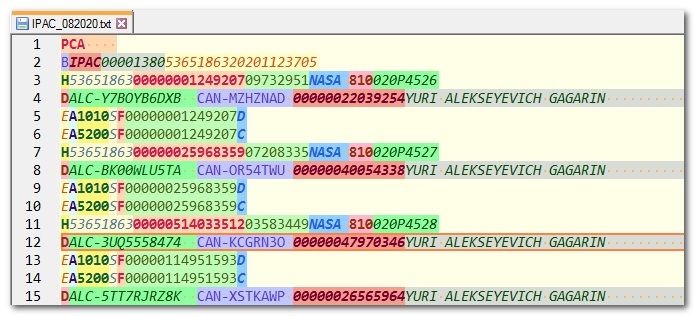
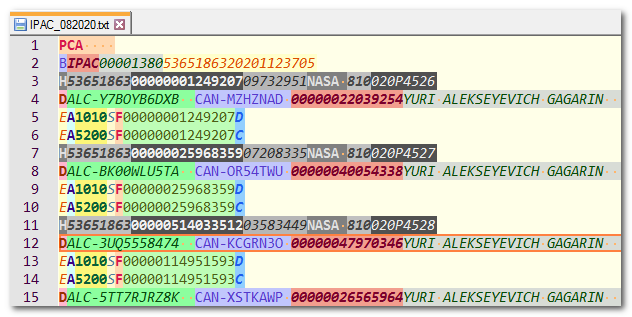
Added documentation for Record Type Theme. v1.0.3.0RC

diff --git a/src/Dialogs/ConfigureDialog.cpp b/src/Dialogs/ConfigureDialog.cpp
@@ -169,6 +169,11 @@ void ConfigureDialog::doDialog(HINSTANCE hInst) {
    Utils::loadBitmap(_hSelf, IDC_FWVIZ_DEF_REC_UP_BUTTON, IDC_VIZ_MOVE_UP_BITMAP);
    Utils::addTooltip(_hSelf, IDC_FWVIZ_DEF_REC_UP_BUTTON, NULL, FWVIZ_DEF_REC_MOVE_UP, FALSE);
 
+   Utils::loadBitmap(_hSelf, IDC_FWVIZ_DEF_REC_THEME_INFOBTN, IDC_VIZ_INFO_BITMAP);
+   HWND hTipRTTheme = Utils::addTooltip(_hSelf, IDC_FWVIZ_DEF_REC_THEME_INFOBTN,
+      FWVIZ_DEF_RECTHEME_HINT_HDR, FWVIZ_DEF_RECTHEME_HINT_TXT, TRUE);
+   SendMessage(hTipRTTheme, TTM_SETDELAYTIME, TTDT_AUTOPOP, (LPARAM)(30000));
+
    Utils::loadBitmap(_hSelf, IDC_FWVIZ_DEF_INFO_BUTTON, IDC_VIZ_INFO_BITMAP);
    Utils::addTooltip(_hSelf, IDC_FWVIZ_DEF_INFO_BUTTON, NULL, VIZ_PANEL_INFO_TIP, FALSE);
 
@@ -213,6 +218,10 @@ INT_PTR CALLBACK ConfigureDialog::run_dlgProc(UINT message, WPARAM wParam, LPARA
 
             case IDC_FWVIZ_DEF_ADFT_INFO_BUTTON:
                ShellExecute(NULL, L"open", FWVIZ_ADFT_DEF_INFO_README, NULL, NULL, SW_SHOW);
+               break;
+
+            case IDC_FWVIZ_DEF_REC_THEME_INFOBTN:
+               ShellExecute(NULL, L"open", FWVIZ_RT_THEME_INFO_README, NULL, NULL, SW_SHOW);
                break;
 
             case IDC_FWVIZ_DEF_INFO_BUTTON:

diff --git a/src/Dialogs/VisualizerPanel.cpp b/src/Dialogs/VisualizerPanel.cpp
@@ -335,9 +335,9 @@ int VisualizerPanel::loadTheme(const wstring theme) {
 
    styleCount = _configIO.StringtoInt(_configIO.getStyleValue(theme, L"Count"));
 
-   // Do not load more than FW_STYLE_CACHE_LENGTH styles (including EOL style)
-   styleCount = (loadedStyleCount + styleCount >= FW_STYLE_CACHE_LENGTH) ?
-      (FW_STYLE_CACHE_LENGTH - loadedStyleCount) : styleCount;
+   // Do not load more than FW_STYLE_CACHE_ITEMS_LIMIT styles (including EOL style)
+   styleCount = (loadedStyleCount + styleCount >= FW_STYLE_CACHE_ITEMS_LIMIT) ?
+      (FW_STYLE_CACHE_ITEMS_LIMIT - loadedStyleCount) : styleCount;
    if (styleCount < 1) return 0;
 
    TI.styleSet.clear();
@@ -645,7 +645,10 @@ void VisualizerPanel::applyLexer(const size_t startLine, const size_t endLine) {
                themeIndex = i;
                break;
             }
-         }  // if no match for recTheme, themeIndex will fallback to 0. i.e., fileTheme
+         }
+         // If no match for recTheme, themeIndex will fallback to 0. i.e., fileTheme
+         // For a recTheme, set colorOffset to zero
+         colorOffset = (themeIndex > 0) ? 0 : colorOffset;
       }
 
       const int styleRangeStart{ themeSet[themeIndex].rangeStartIndex };

diff --git a/src/Resources/resource.h b/src/Resources/resource.h
@@ -1547,11 +1547,12 @@
 #define IDC_FWVIZ_DEF_REC_REGEX_EDIT    9141
 #define IDC_FWVIZ_DEF_REC_REGEX_ANSI    9142
 #define IDC_FWVIZ_DEF_REC_THEME_LABEL   9143
-#define IDC_FWVIZ_DEF_REC_THEME_LIST    9144
-#define IDC_FWVIZ_DEF_REC_ACCEPT_BTN    9145
-#define IDC_FWVIZ_DEF_REC_NEW_BTN       9146
-#define IDC_FWVIZ_DEF_REC_CLONE_BTN     9147
-#define IDC_FWVIZ_DEF_REC_DEL_BTN       9148
+#define IDC_FWVIZ_DEF_REC_THEME_INFOBTN 9144
+#define IDC_FWVIZ_DEF_REC_THEME_LIST    9145
+#define IDC_FWVIZ_DEF_REC_ACCEPT_BTN    9146
+#define IDC_FWVIZ_DEF_REC_NEW_BTN       9147
+#define IDC_FWVIZ_DEF_REC_CLONE_BTN     9148
+#define IDC_FWVIZ_DEF_REC_DEL_BTN       9149
 #define IDC_FWVIZ_DEF_FIELD_GROUP_BOX   9161
 #define IDC_FWVIZ_DEF_FIELD_WIDTHS_TEXT 9162
 #define IDC_FWVIZ_DEF_FIELD_WIDTHS_EDIT 9163

diff --git a/src/Dialogs/VisualizerPanel.h b/src/Dialogs/VisualizerPanel.h
@@ -15,7 +15,7 @@
 #define FW_DOC_FILE_TYPE "FWVisualizerType"
 #define FW_DOC_FILE_THEME "FWVisualizerTheme"
 #define FW_STYLE_CACHE_START_INDEX 100
-#define FW_STYLE_CACHE_LENGTH 128
+#define FW_STYLE_CACHE_ITEMS_LIMIT 128
 
 extern NppData nppData;
 extern ConfigIO _configIO;

diff --git a/docs/file_type_config_dialog.md b/docs/file_type_config_dialog.md
@@ -17,6 +17,7 @@ This editor is organized in a three-level hierarchy:
   * All Auto-Detect File Type fields
   * Record Starts With
   * Record Regex Key
+  * Record Color Theme
 
 * Field Labels and Field Widths are synchronized for editing and scrolling.
 
@@ -28,4 +29,4 @@ This editor is organized in a three-level hierarchy:
 
 * Previous configurations are automatically backed up with each save. Use _Load Backup Configuration File_ to load a backup file.
 
-**See also**: [Auto-Detect File Type Configuration](https://github.com/shriprem/FWDataViz/blob/master/docs/auto_detect_file_type.md) | [Extract File Type Data](https://github.com/shriprem/FWDataViz/blob/master/docs/file_type_extract_dialog.md) | [Append File Type Data](https://github.com/shriprem/FWDataViz/blob/master/docs/file_type_append_dialog.md)
+**See also**: [Auto-Detect File Type Configuration](https://github.com/shriprem/FWDataViz/blob/master/docs/auto_detect_file_type.md) | [Record Type Theme](https://github.com/shriprem/FWDataViz/blob/master/docs/record_type_theme.md) | [Extract File Type Data](https://github.com/shriprem/FWDataViz/blob/master/docs/file_type_extract_dialog.md) | [Append File Type Data](https://github.com/shriprem/FWDataViz/blob/master/docs/file_type_append_dialog.md)

diff --git a/README.md b/README.md
@@ -61,6 +61,7 @@ __Treasury IPAC File__
 _(real format, but with fake data)_
 ![Multi_Rec](https://raw.githubusercontent.com/shriprem/FWDataViz/master/images/multi_rec_ipac_file.png)
 
+In the above clip, the _Transaction Header_ records are being visualized with a different theme. For more information on this, see: [Record Type Theme](https://github.com/shriprem/FWDataViz/blob/master/docs/record_type_theme.md)
 
 ### Multi-Line Record-type Fixed-width Data Files
 Files with data records that span multiple lines. End of record is indicated by a marker. For example: _<END_REC>_

diff --git a/docs/auto_detect_file_type.md b/docs/auto_detect_file_type.md
@@ -12,7 +12,7 @@ For ADFT to work, it requires:
 
 ## ADFT in a Nutshell
 
-![Theme_Extract](https://raw.githubusercontent.com/shriprem/FWDataViz/master/images/file_type_adft.png)
+![ADFT_Edit_Fields](https://raw.githubusercontent.com/shriprem/FWDataViz/master/images/file_type_adft.png)
 
 1. Line Numbers begin at '1', counting forwards from the start of file. Negative line numbers count backwards from the end of file. Zero and numbers (+ve or -ve) beyond file line count will fail ADFT matching.
 

diff --git a/VersionHistory.md b/VersionHistory.md
@@ -1,8 +1,12 @@
 ## Version History
 
+### Version 1.0.3.0
+#### Enhancements:
+1. [Record Type Themes](https://github.com/shriprem/FWDataViz/blob/master/docs/file_type_extract_dialog.md)
+
 ### Version 1.0.2.0
 #### Enhancements:
-1. Automatic Detection of File Types
+1. [Automatic Detection of File Types](https://github.com/shriprem/FWDataViz/blob/master/docs/auto_detect_file_type.md)
 
 ### Version 1.0.1.0
 #### Enhancements:
